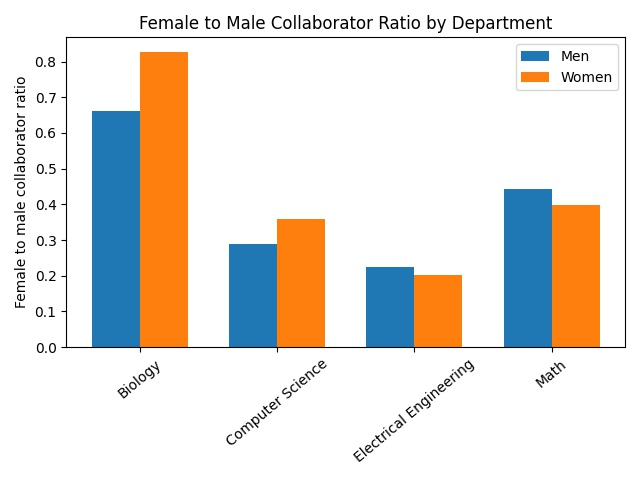
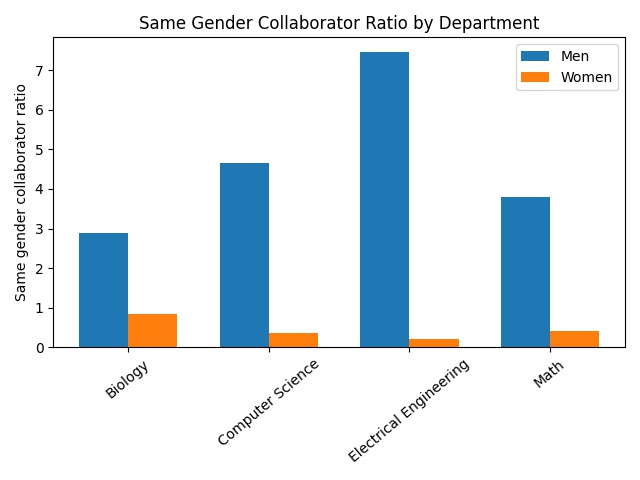
Fix claim 4

diff --git a/claims.py b/claims.py
@@ -22,6 +22,10 @@ researchers_df = pd.DataFrame(raw_researchers, columns=['rid', 'department', 'in
                                                         'first_name', 'middle_name', 'last_name', 'ms_id', 'hired_year',
                                                         'cal_poly_position', 'education', 'gender', 'gender_accuracy'])
 
+raw_collaborations = select_all_from_table('Collaborations2', cur)
+collaborations_df = pd.DataFrame(raw_collaborations, columns=['cid', 'title', 'year', 'created_at', 'update_at',
+                                                              'data_source', 'type'])
+
 close_connection(cnx, cur)
 
 bio_rids = researchers_df[researchers_df['department'] == 'biology']['rid']
@@ -168,7 +172,7 @@ def claim_3():
     plt.savefig('./data/claim3.jpg')
 
 
-def get_female_to_male_ratio(rids):
+def get_gender_to_gender_ratio(rids, female_to_male):
     female_count = 0
     male_count = 0
     for rid in rids:
@@ -177,10 +181,17 @@ def get_female_to_male_ratio(rids):
             male_count = male_count + 1
         elif gender == 'female':
             female_count = female_count + 1
-    if male_count == 0:
-        return 1.0
+    print('{0} : {1}'.format(female_count, male_count))
+    if female_to_male:
+        if male_count == 0:
+            return 1.0
+        else:
+            return female_count / male_count
     else:
-        return female_count / male_count
+        if female_count == 0:
+            return 1.0
+        else:
+            return male_count / female_count
 
 
 def claim_4():
@@ -193,14 +204,22 @@ def claim_4():
     math_m = list(filter(lambda rid: get_gender(rid) == 'male', math_rids))
     math_f = list(filter(lambda rid: get_gender(rid) == 'female', math_rids))
 
-    bio_m_count = statistics.mean(list(map(get_female_to_male_ratio, get_rid_to_collaborators(bio_m).values())))
-    bio_f_count = statistics.mean(list(map(get_female_to_male_ratio, get_rid_to_collaborators(bio_f).values())))
-    cs_m_count = statistics.mean(list(map(get_female_to_male_ratio, get_rid_to_collaborators(cs_m).values())))
-    cs_f_count = statistics.mean(list(map(get_female_to_male_ratio, get_rid_to_collaborators(cs_f).values())))
-    ee_m_count = statistics.mean(list(map(get_female_to_male_ratio, get_rid_to_collaborators(ee_m).values())))
-    ee_f_count = statistics.mean(list(map(get_female_to_male_ratio, get_rid_to_collaborators(ee_f).values())))
-    math_m_count = statistics.mean(list(map(get_female_to_male_ratio, get_rid_to_collaborators(math_m).values())))
-    math_f_count = statistics.mean(list(map(get_female_to_male_ratio, get_rid_to_collaborators(math_f).values())))
+    bio_m_count = statistics.mean(list(map(lambda rids: get_gender_to_gender_ratio(rids, False),
+                                           get_rid_to_collaborators(bio_m).values())))
+    bio_f_count = statistics.mean(list(map(lambda rids: get_gender_to_gender_ratio(rids, True),
+                                           get_rid_to_collaborators(bio_f).values())))
+    cs_m_count = statistics.mean(list(map(lambda rids: get_gender_to_gender_ratio(rids, False),
+                                          get_rid_to_collaborators(cs_m).values())))
+    cs_f_count = statistics.mean(list(map(lambda rids: get_gender_to_gender_ratio(rids, True),
+                                          get_rid_to_collaborators(cs_f).values())))
+    ee_m_count = statistics.mean(list(map(lambda rids: get_gender_to_gender_ratio(rids, False),
+                                          get_rid_to_collaborators(ee_m).values())))
+    ee_f_count = statistics.mean(list(map(lambda rids: get_gender_to_gender_ratio(rids, True),
+                                          get_rid_to_collaborators(ee_f).values())))
+    math_m_count = statistics.mean(list(map(lambda rids: get_gender_to_gender_ratio(rids, False),
+                                            get_rid_to_collaborators(math_m).values())))
+    math_f_count = statistics.mean(list(map(lambda rids: get_gender_to_gender_ratio(rids, True),
+                                            get_rid_to_collaborators(math_f).values())))
 
     ind = np.arange(4)
     width = 0.35
@@ -211,12 +230,12 @@ def claim_4():
     plt.bar(ind, m_avgs, width, label="Men")
     plt.bar(ind + width, f_avgs, width, label='Women')
 
-    plt.ylabel('Female to male collaborator ratio')
-    plt.title('Female to Male Collaborator Ratio by Department')
+    plt.ylabel('Same gender collaborator ratio')
+    plt.title('Same Gender Collaborator Ratio by Department')
     plt.xticks(ind + width / 2, department, rotation=40)
     plt.tight_layout()
     plt.legend(loc='best')
     plt.savefig('./data/claim4.jpg')
 
-claim_4()
 
+claim_4()
